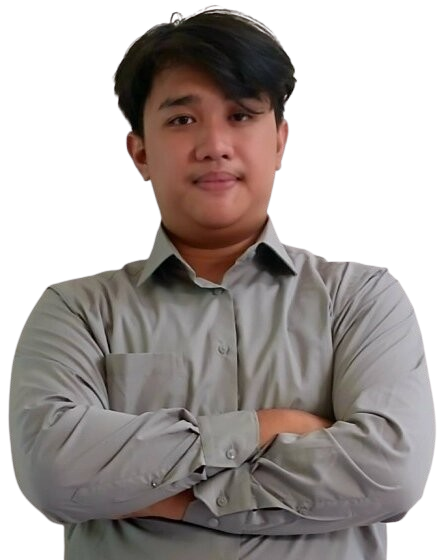
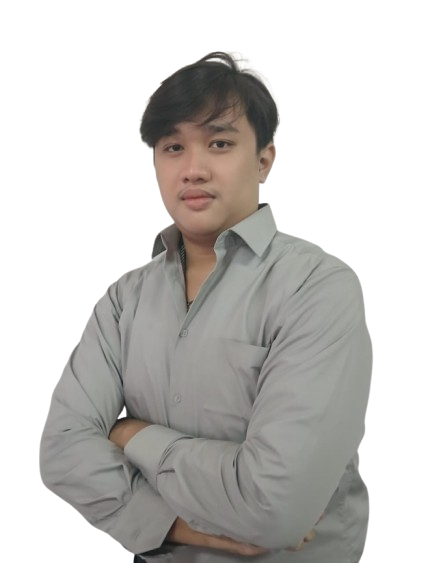
commit kedua

diff --git a/index.html b/index.html
@@ -11,7 +11,7 @@
     <link rel="icon" href="./images/image.png">
     <link rel="stylesheet" href="https://cdnjs.cloudflare.com/ajax/libs/twitter-bootstrap/4.1.3/css/bootstrap.min.css">
     <link rel="stylesheet" href="https://cdnjs.cloudflare.com/ajax/libs/ionicons/2.0.1/css/ionicons.min.css">
-    <link rel="stylesheet" href="https://cdn.jsdelivr.net/npm/bootstrap@4.5.3/dist/css/bootstrap.min.css" integrity="sha384-TX8t27EcRE3e/ihU7zmQxVncDAy5uIKz4rEkgIXeMed4M0jlfIDPvg6uqKI2xXr2" crossorigin="anonymous">
+    <link rel="stylesheet" href="https://cdn.jsdelivr.net/npm/bootstrap@5.3.0-alpha3/dist/css/bootstrap.min.css" rel="stylesheet">
     <link rel="stylesheet" href="https://stackpath.bootstrapcdn.com/font-awesome/4.7.0/css/font-awesome.min.css" integrity="sha384-wvfXpqpZZVQGK6TAh5PVlGOfQNHSoD2xbE+QkPxCAFlNEevoEH3Sl0sibVcOQVnN" crossorigin="anonymous">
     <link href="lib/bootstrap/css/bootstrap.min.css" rel="stylesheet">
     <link href="lib/ionicons/css/ionicons.min.css" rel="stylesheet">
@@ -109,63 +109,56 @@
 
 <div class="pt-5 pb-5">
     <div class="container">
-      <div class="row">
         <div class="section-head-1 col-sm-12" style="text-align: center;">
-          <h4 style="margin-top: -5rem;" id="portfolio"><span>Our</span> Projects</h4>
-          
-          <p>The objective of IT Company is to enable a large number of youth to take up <br>industry-relevant skill training that will help them<br> in securing a better livelihood.
-            </p>
-        </div>
-        
-        <div class="col-lg-4 col-sm-6">
-          
-          <div class="item"> <span class="icon feature_box_col_four"><i class="fa fa-database"></i></span>
-            <h6>Project-1</h6>
+            <h4 style="margin-top: -5rem;" id="portfolio"><span>Sertifikasi</span> Anggota</h4>
             
-            <p>Lorem ipsum dolor sit amet, consectetuer adipiscing elit. Aenean commodo ligula eget dolor Aenean massa.<br><br><br></p>
+            <p>Dengan sertifikasi ini, karyawan kami telah berhasil menyelesaikan program pelatihan yang dirancang khusus untuk memperluas wawasan dan meningkatkan kemampuan dalam menangani serta menyelesaikan berbagai permasalahan yang dihadapi oleh klien secara profesional.
+              </p>
           </div>
+        <div id="certificateCarousel" class="carousel slide" data-bs-ride="carousel">
+            <div class="carousel-inner">
+                <!-- Slide 1 -->
+                <div class="carousel-item active">
+                    <img src="images/C1IBS.png" class="d-block w-100" alt="Certificate Image 1">
+                </div>
+                <!-- Slide 2 -->
+                <div class="carousel-item">
+                    <img src="images/C1FHN.png" class="d-block w-100" alt="Certificate Image 2">
+                </div>
+                <!-- Slide 3 -->
+                <div class="carousel-item">
+                    <img src="images/C1CLS.png" class="d-block w-100" alt="Certificate Image 2">
+                </div>
+                <!-- Slide 4 -->
+                <div class="carousel-item">
+                    <img src="images/C1VNS.png" class="d-block w-100" alt="Certificate Image 2">
+                </div>
+                <!-- Slide 5 -->
+                <div class="carousel-item">
+                    <img src="images/C1KDY.png" class="d-block w-100" alt="Certificate Image 2">
+                </div>
+            </div>
+            <!-- Controls -->
+            <button class="carousel-control-prev" type="button" data-bs-target="#certificateCarousel" data-bs-slide="prev">
+                <span class="carousel-control-prev-icon" aria-hidden="true"></span>
+                <span class="visually-hidden">Previous</span>
+            </button>
+            <button class="carousel-control-next" type="button" data-bs-target="#certificateCarousel" data-bs-slide="next">
+                <span class="carousel-control-next-icon" aria-hidden="true"></span>
+                <span class="visually-hidden">Next</span>
+            </button>
+            <!-- Indicators -->
+            <div class="carousel-indicators">
+                <button type="button" data-bs-target="#certificateCarousel" data-bs-slide-to="0" class="active" aria-current="true" aria-label="Slide 1"></button>
+                <button type="button" data-bs-target="#certificateCarousel" data-bs-slide-to="1" aria-label="Slide 2"></button>
+            </div>
         </div>
-        
-        <div class="col-lg-4 col-sm-6">
-          <div class="item"> <span class="icon feature_box_col_five"><i class="fa fa-upload"></i></span>
-            <h6>Project-2</h6>
-            <p>Lorem ipsum dolor sit amet, consectetuer adipiscing elit. Aenean commodo ligula eget dolor Aenean massa.<br><br><br></p>
-          </div>
-        </div>
-        <div class="col-lg-4 col-sm-6">
-          <div class="item"> <span class="icon feature_box_col_six"><i class="fa fa-camera"></i></span>
-            <h6>Project-3</h6>
-            <p>Lorem ipsum dolor sit amet, consectetuer adipiscing elit. Aenean commodo ligula eget dolor Aenean massa.<br><br><br></p>
-          </div>
-        </div>
-      </div>
     </div>
 </div>
 
 <div class="communicate">
 </div>
 
-<div class="testimonials mt-100">
-    <div class="container">
-        <div class="section-header" style="text-align: center;">
-            <h2 style="margin-top: -15rem;" hover="true">Testimonials</h2>
-            <p style="font-size: 2rem;">
-                Coming Soon
-            </p>
-        </div>
-    </div>
-</div>
-
-<div class="clients mt-100">
-    <div class="container">
-        <div class="section-header">
-            <h2>Our Clients</h2>
-            <p>
-                Coming Soon
-            </p>
-        </div>
-    </div>
-</div>
 <a href="#" class="back-to-top"><i class="ion-ios-arrow-up"></i></a>
 <script src="lib/jquery/jquery.min.js"></script>
 <script src="lib/jquery/jquery-migrate.min.js"></script>
@@ -182,13 +175,13 @@
   <div class="row">
       <div class="card">
           <div class="image">
-              <img src="./images/kindy.png" alt="Team member 1">
+              <img src="./images/Kindy.png" alt="Team member 1">
           </div>
           <div class="info">
               <h3>Kindy Bintang Naufaldi</h3>
               <span>Project Manager</span>
               <div class="icons">
-                  <a href="https://www.instagram.com/" class="fab fa-instagram"></a>
+                  <a href="https://www.instagram.com/kindykindness22/" class="fab fa-instagram"></a>
                   <a href="https://www.linkedin.com/" class="fab fa-linkedin"></a>
               </div>
           </div>
@@ -197,14 +190,14 @@
   <div class="row">
       <div class="card">
           <div class="image">
-              <img src="./images/charles.png" alt="Team member 1">
+              <img src="./images/Charles.png" alt="Team member 1">
           </div>
           <div class="info">
               <h3>Charles Parluhutan</h3>
               <span>Technical Writer</span>
               <div class="icons">
-                  <a href="https://www.instagram.com/" class="fab fa-instagram"></a>
-                  <a href="https://www.linkedin.com/" class="fab fa-linkedin"></a>
+                  <a href="https://www.instagram.com/charlesbryanr/" class="fab fa-instagram"></a>
+                  <a href="https://www.linkedin.com/in/charles-parluhutan-93594b229/" class="fab fa-linkedin"></a>
               </div>
           </div>
       </div>
@@ -212,14 +205,14 @@
   <div class="row">
       <div class="card">
           <div class="image">
-              <img src="./images/farhan.jpg" alt="Team member 1">
+              <img src="./images/Farhan.png" alt="Team member 1">
           </div>
           <div class="info">
               <h3>Farhan Fadillah</h3>
               <span>Tester</span>
               <div class="icons">
-                  <a href="https://www.instagram.com/" class="fab fa-instagram"></a>
-                  <a href="https://www.linkedin.com/" class="fab fa-linkedin"></a>
+                  <a href="https://www.instagram.com/frhn.f14" class="fab fa-instagram"></a>
+                  <a href="http://www.linkedin.com/in/farhan-fadillah-2a43a222b" class="fab fa-linkedin"></a>
               </div>
           </div>
       </div>
@@ -227,14 +220,14 @@
   <div class="row">
       <div class="card">
           <div class="image">
-              <img src="./images/bayu.jpg" alt="Team member 1">
+              <img src="./images/Bayu.png" alt="Team member 1">
           </div>
           <div class="info">
               <h3>Irfan Bayu Seno</h3>
               <span>Analis</span>
               <div class="icons">
-                  <a href="https://www.instagram.com/" class="fab fa-instagram"></a>
-                  <a href="https://www.linkedin.com/" class="fab fa-linkedin"></a>
+                  <a href="https://www.instagram.com/irfan.bayu__" class="fab fa-instagram"></a>
+                  <a href="https://www.linkedin.com/in/irfan-bayu-seno" class="fab fa-linkedin"></a>
               </div>
           </div>
       </div>
@@ -242,7 +235,7 @@
   <div class="row">
     <div class="card">
         <div class="image">
-            <img src="./images/steven.png" alt="Team member 1">
+            <img src="./images/Steve.png" alt="Team member 1">
         </div>
         <div class="info">
             <h3>Steven Go Nathaniel</h3>
@@ -394,5 +387,7 @@
   </div>
 
   <a href="#" class="back-to-top"><i class="ion-ios-arrow-up"></i></a>
+  <!-- Bootstrap JS -->
+  <script src="https://cdn.jsdelivr.net/npm/bootstrap@5.3.0-alpha3/dist/js/bootstrap.bundle.min.js"></script>
 </body>
 </html>
